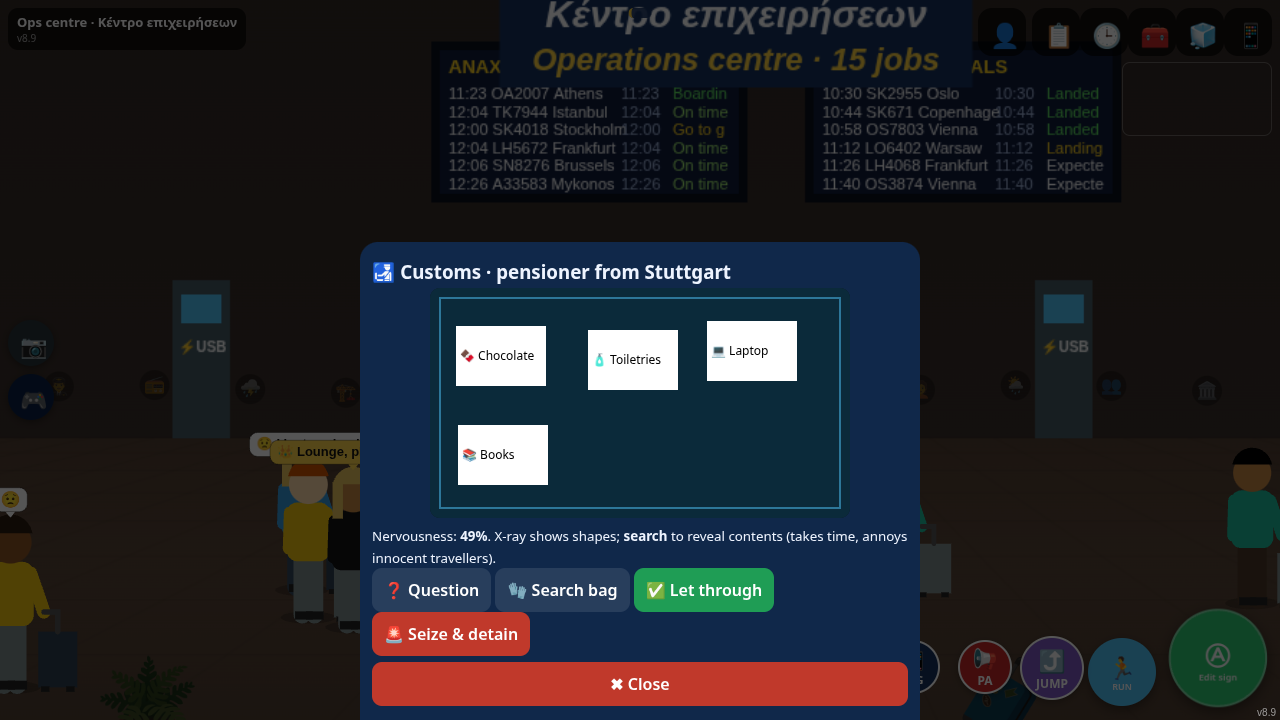
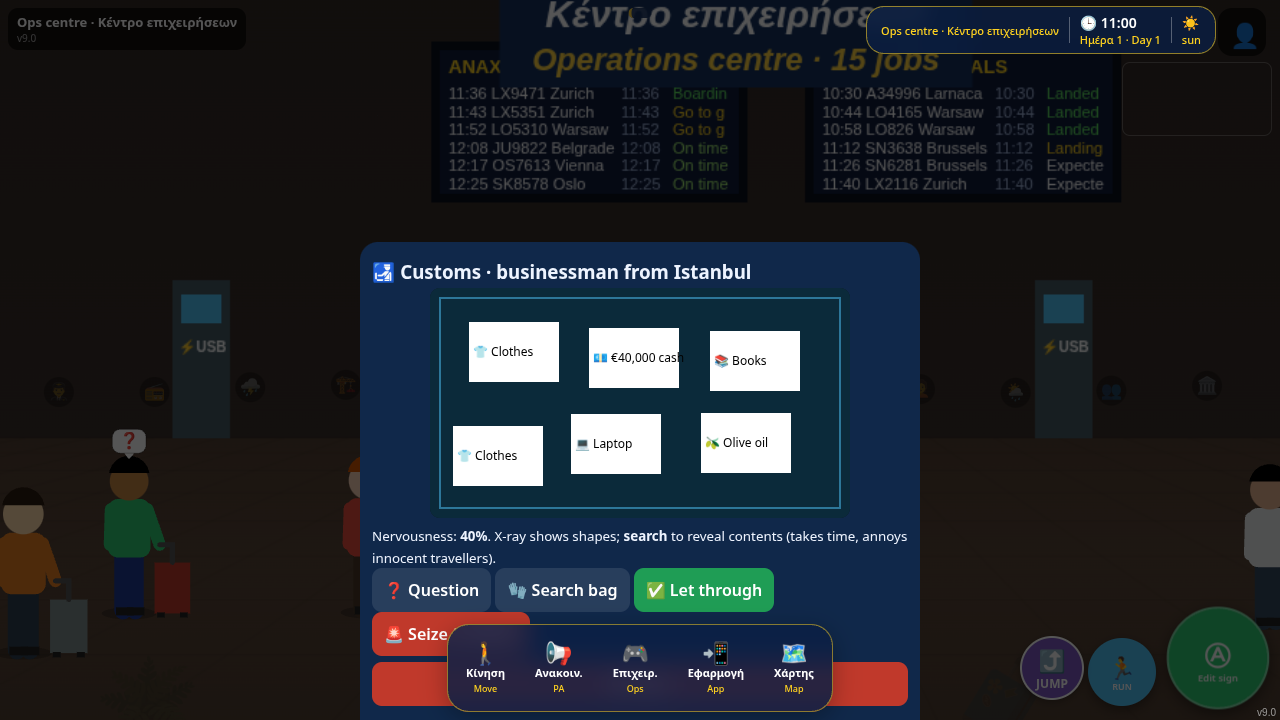
v9.0a2: new SKG UI dock, status bar, mini-map, e-ink variant

diff --git a/index.html b/index.html
@@ -1979,7 +1979,7 @@ function w3Render(){if(!REN)return;V1=V1||_v3();V2=V2||_v3();const P=W3.p,cab=W3
  const s=$('#w3say');const n=W.near;if(n){const p=_v3().set(n.x,n.k==='npc'?2.9:3.4,n.z).project(CAM);if(p.z<1){s.style.display='block';s.style.left=((p.x+1)/2*W.W)+'px';s.style.top=((1-p.y)/2*W.H)+'px';s.textContent=n.k==='npc'?n.n.req.ic+' '+n.n.req.say:'Ⓐ '+n.t}else s.style.display='none'}else s.style.display='none'}
 
 /* ===== v5.1: 3D looks like Dominik's pictures (ceilings, materials, props, collisions) ===== */
-const VER='v8.9';
+const VER='v9.0';
 let COL=[];function col(x,z,w,d){COL.push({x0:x-w/2,x1:x+w/2,z0:z-d/2,z1:z+d/2})}
 const _wk4=w3Walkable;w3Walkable=function(x,z){if(!_wk4(x,z))return false;if(W3.mode==='cab')return true;const ins=(a,b)=>COL.some(c=>a>c.x0-.28&&a<c.x1+.28&&b>c.z0-.28&&b<c.z1+.28);return !ins(x,z)||ins(W3.p.x,W3.p.z)};
 const INST={};function inst(key,geo,m,x,y,z,ry,sx,sy,sz,rz){(INST[key]=INST[key]||{geo,m,a:[]}).a.push([x,y,z,ry||0,sx||1,sy||1,sz||1,rz||0])}
@@ -5152,5 +5152,55 @@ function t7tp24(){return `<div class="ft7" style="margin:6px 0"><button class="y
  const _ft24=fastTravel;fastTravel=function(){const r=_ft24.apply(this,arguments);const m=$('#modal h3');if(m)m.insertAdjacentHTML('afterend',t7tp24());return r}
  const _mp24=map14;map14=function(){const r=_mp24.apply(this,arguments);const m=$('#modal h3');if(m)m.insertAdjacentHTML('afterend',t7tp24());return r}}
 NEW4.push(['🎙','v9.0: Greek PA = fresh translation of exactly what you said, natural neural voice with terminal echoes · bigger T7 (16 gates, food court, lounge, art garden) · T7 PA1–PA4 teleports']);
+
+// v9.0 UI: Fraport/SKG navy-white-gold glass UI · grouped dock (Move/PA/Ops/App/Map) · status bar · compass + mini-map · e-ink high contrast
+(function(){const css=`
+#ui25bar{position:fixed;top:max(6px,env(safe-area-inset-top));right:64px;z-index:60;display:flex;gap:10px;align-items:center;padding:6px 14px;border-radius:18px;background:rgba(10,31,68,.78);backdrop-filter:blur(10px);-webkit-backdrop-filter:blur(10px);color:#fff;border:1px solid rgba(255,210,31,.55);font:600 13px system-ui;pointer-events:none;max-width:70vw}
+#ui25bar .gr{font-size:14px;color:#fff}#ui25bar .en{font-size:11px;color:#ffd21f;font-weight:500}#ui25bar .sep{width:1px;height:26px;background:rgba(255,255,255,.3)}
+#ui25dock{position:fixed;left:50%;bottom:max(8px,env(safe-area-inset-bottom));transform:translateX(-50%);z-index:61;display:flex;gap:6px;padding:6px;border-radius:22px;background:rgba(10,31,68,.82);backdrop-filter:blur(12px);-webkit-backdrop-filter:blur(12px);border:1px solid rgba(255,210,31,.5);box-shadow:0 6px 24px rgba(0,0,0,.3)}
+#ui25dock>button{min-width:62px;min-height:58px;border:0;border-radius:16px;background:transparent;color:#fff;font:700 11px system-ui;display:flex;flex-direction:column;align-items:center;justify-content:center;gap:2px;transition:background .2s,transform .15s}
+#ui25dock>button b{font-size:22px;line-height:1}#ui25dock>button small{font-size:9px;color:#ffd21f;font-weight:500}
+#ui25dock>button.on{background:#ffd21f;color:#0a1f44}#ui25dock>button.on small{color:#0a1f44}
+.ui25fly{position:fixed;left:50%;bottom:calc(max(8px,env(safe-area-inset-bottom)) + 80px);transform:translateX(-50%) translateY(12px);opacity:0;pointer-events:none;z-index:62;display:grid;grid-template-columns:repeat(4,minmax(64px,1fr));gap:8px;padding:12px;border-radius:20px;background:rgba(255,255,255,.9);backdrop-filter:blur(14px);-webkit-backdrop-filter:blur(14px);border:1px solid rgba(10,31,68,.15);box-shadow:0 10px 30px rgba(10,31,68,.35);transition:opacity .22s,transform .22s;max-width:94vw}
+.ui25fly.on{opacity:1;transform:translateX(-50%) translateY(0);pointer-events:auto}
+.ui25fly h4{grid-column:1/-1;margin:0 0 2px;font:700 13px system-ui;color:#0a1f44}.ui25fly h4 small{display:block;color:#8a6d00;font-weight:500}
+.ui25fly button{position:static!important;inset:auto!important;transform:none!important;min-width:64px!important;min-height:60px!important;width:auto!important;height:auto!important;margin:0!important;border-radius:14px!important;background:#0a1f44!important;color:#fff!important;border:2px solid #ffd21f!important;font:700 20px system-ui!important;line-height:1.1!important;display:flex!important;padding:4px!important;flex-direction:column;align-items:center;justify-content:center;opacity:1!important}
+#ui25mm{position:fixed;right:10px;top:max(64px,calc(env(safe-area-inset-top) + 58px));z-index:59;width:112px;height:112px;border-radius:50%;background:rgba(10,31,68,.78);border:2px solid #ffd21f;overflow:hidden;pointer-events:none}
+#ui25mm canvas{width:100%;height:100%}
+#wAct,#wRun,#jmp16{min-width:64px;min-height:64px}
+body.eink #ui25bar,body.eink #ui25dock,body.eink .ui25fly,body.eink #ui25mm{background:#fff!important;color:#000!important;border:3px solid #000!important;backdrop-filter:none!important;-webkit-backdrop-filter:none!important;box-shadow:none!important;transition:none!important}
+body.eink #ui25bar .en,body.eink #ui25dock small{color:#000!important}body.eink #ui25dock>button{color:#000}body.eink #ui25dock>button.on{background:#000;color:#fff}body.eink #ui25dock>button.on small{color:#fff!important}
+body.eink .ui25fly button{background:#fff!important;color:#000!important;border:3px solid #000!important}body.eink .ui25fly h4,body.eink .ui25fly h4 small{color:#000}
+body.eink #ui25mm{display:none}
+#ui25bar>div{white-space:nowrap}@media (max-width:520px){#ui25bar{right:60px;left:auto;gap:6px;padding:4px 8px;font-size:11px;max-width:calc(100vw - 130px)}#ui25bar .gr{font-size:12px}#ui25bar .en{font-size:9px}#ui25bar>div:first-child{overflow:hidden;text-overflow:ellipsis;max-width:110px}#ui25dock{gap:2px;padding:4px}#ui25dock>button{min-width:56px;min-height:56px;font-size:10px;padding:0 2px}.ui25fly{grid-template-columns:repeat(3,64px)}}
+.ui25fly button *{font-size:inherit!important;color:inherit!important;display:inline!important;position:static!important}.ui25fly button small,.ui25fly button span{font-size:11px!important;display:block!important}
+.wtop .ui25hide,#w6bar.ui25hide{display:none!important}`;
+const st=document.createElement('style');st.textContent=css;document.head.appendChild(st)})();
+const UI25={cats:[['move','🚶','Κίνηση','Move',['w6ride','w6fp','bWalk','bSpeed','w6sh','wRun','jmp16']],['pa','📢','Ανακοινώσεις','PA',['pa16','bAnn','w6rad','bSnd']],['ops','🎮','Επιχειρήσεις','Ops',['ops23','w7hub','hb12','brd10','tm11','spt23']],['app','📲','Εφαρμογή SKG','App',['ph17','wPhone','w6set','bInk','w3b']],['map','🗺','Χάρτης','Map',['w7ft','map25']]],open:null,keep:{wRun:1,jmp16:1}};
+function ui25(){if($('#ui25dock'))return;const d=document.createElement('div');d.id='ui25dock';document.body.appendChild(d);
+ UI25.cats.forEach(([k,ic,gr,en])=>{const b=document.createElement('button');b.id='ui25_'+k;b.innerHTML=`<b>${ic}</b>${({move:'Κίνηση',pa:'Ανακοιν.',ops:'Επιχειρ.',app:'Εφαρμογή',map:'Χάρτης'})[k]}<small>${en}</small>`;b.onclick=()=>ui25tog(k);d.appendChild(b);
+  const f=document.createElement('div');f.className='ui25fly';f.id='ui25f_'+k;f.innerHTML=`<h4>${gr}<small>${en}</small></h4>`;document.body.appendChild(f)});
+ const m=document.createElement('button');m.id='map25';m.innerHTML='🗺<br>Χάρτης / Map';m.onclick=()=>{ui25tog(null);map14()};$('#ui25f_map').appendChild(m);
+ const bar=document.createElement('div');bar.id='ui25bar';document.body.appendChild(bar);
+ const mm=document.createElement('div');mm.id='ui25mm';mm.style.display='none';mm.innerHTML='<canvas width="224" height="224"></canvas>';document.body.appendChild(mm);
+ document.addEventListener('pointerdown',e=>{if(UI25.open&&!e.target.closest('.ui25fly,#ui25dock'))ui25tog(null)},true)}
+function ui25tog(k){UI25.open=UI25.open===k?null:k;UI25.cats.forEach(([c])=>{$('#ui25f_'+c).classList.toggle('on',c===UI25.open);$('#ui25_'+c).classList.toggle('on',c===UI25.open)})}
+// move existing buttons into their category (keeps their handlers); RUN/JUMP stay in the action cluster too in 3D
+function sweep25(){ui25();UI25.cats.forEach(([k,,,,ids])=>{const f=$('#ui25f_'+k);ids.forEach(id=>{if(UI25.keep[id])return;const e=document.getElementById(id);if(e&&e.parentElement!==f)f.appendChild(e)})});
+ const w=$('#w6bar');if(w)w.classList.toggle('ui25hide',!w.querySelector('button'));
+ // big touch targets everywhere
+ ['wAct','wRun','jmp16'].forEach(id=>{const e=document.getElementById(id);if(e){e.style.minWidth='64px';e.style.minHeight='64px'}})}
+const WXI25={clear:'☀',sun:'☀',cloud:'⛅',rain:'🌧',storm:'⛈',fog:'🌫',snow:'❄',wind:'💨'};
+function bar25(){const b=$('#ui25bar');if(!b)return;let gr='',en='';try{if(W3.on){const t=typeof curT16==='function'?curT16():null;const X=t?TT22(t):null;en=X?X.name:(t===0?'Makedonia terminal':'Airport · outside');gr=X?(X.id===8?'Τερματικός 1A':'Τερματικός '+X.id):(t===0?'Τερματικός Μακεδονία':'Αεροδρόμιο')}else{const A=WA[W.area]||{};en=A.name||'';gr=A.gr||''}}catch(e){}
+ const k=(G.wx&&G.wx.k)||'clear',wi=Object.keys(WXI25).find(x=>String(k).includes(x));const h=b.dataset.h=`<div><div class="gr">${gr}</div><div class="en">${en}</div></div><div class="sep"></div><div><div class="gr">🕒 ${hm(G.min)}</div><div class="en">Ημέρα ${G.day} · Day ${G.day}</div></div><div class="sep"></div><div><div class="gr">${WXI25[wi]||'🌤'}</div><div class="en">${String(k)}</div></div>`;if(b._h!==h){b.innerHTML=h;b._h=h}}
+function mm25(){const w=$('#ui25mm');if(!w)return;w.style.display=W3.on?'':'none';if(!W3.on)return;const c=w.firstChild,g=c.getContext('2d'),s=.35,px=W3.p.x,pz=W3.p.z;g.clearRect(0,0,224,224);g.save();g.translate(112,112);g.rotate(W3.yaw||0);
+ const R=(x0,z0,x1,z1,col)=>{g.fillStyle=col;g.fillRect((x0-px)*s,(z0-pz)*s,(x1-x0)*s,(z1-z0)*s)};
+ try{(TERMS||[]).forEach(T=>{if(T.x0!==undefined)R(T.x0,T.z0,T.x1,T.z1,'rgba(255,255,255,.55)')});(XT22||[]).forEach(X=>R(X.x0,X.z0,X.x1,X.z1,X.id===7?'rgba(255,210,31,.8)':'rgba(144,202,249,.8)'));R(-200,-400,3000,-330,'rgba(120,120,120,.6)')}catch(e){}
+ g.restore();g.fillStyle='#ffd21f';g.beginPath();g.moveTo(112,98);g.lineTo(104,122);g.lineTo(120,122);g.fill();
+ const a=(W3.yaw||0);g.fillStyle='#fff';g.font='bold 22px system-ui';g.textAlign='center';g.fillText('N',112+Math.sin(-a)*-92,112-Math.cos(-a)*92+8)}
+setInterval(()=>{try{sweep25();bar25();if(!W3.on&&$('#ui25mm'))$('#ui25mm').style.display='none'}catch(e){}},700);
+{let t=0;const _u=w3Update;w3Update=function(dt){const r=_u.apply(this,arguments);t-=dt||0;if(t<=0){t=.15;try{mm25()}catch(e){}}return r}}
+// smooth area/modal transitions (off on e-ink)
+(function(){const s=document.createElement('style');s.textContent='body:not(.eink) #modal .box,body:not(.eink) #modal>div{animation:ui25in .22s ease-out}@keyframes ui25in{from{opacity:0;transform:translateY(10px) scale(.98)}to{opacity:1;transform:none}}';document.head.appendChild(s)})();
 
 </script></body></html>

diff --git a/PROGRESS.md b/PROGRESS.md
@@ -171,3 +171,8 @@ Greek translates actual transcript (fuzzy script match ≥ threshold, protected 
 - Voice: natural neural Greek audio (Google TTS), split into sentences with pauses, plus delayed "terminal speaker" echoes and hall ambience. Fallbacks: the best iPhone Greek voice (Premium/Enhanced Melina first), then the built-in offline voice. Lighter muffling.
 - T7: 500 m wide, 16 gates, 16 shops/restaurants/lounge, food court and lounge & art garden (2D areas t7f, t7l), olive-tree planters, sculptures and art walls, sofas, 4 extra double-sided board pairs, more passengers.
 - Teleports: Terminal 7 and T7 PA1–PA4 (plus T1A PA) in the PA picker, travel menu and 2D map, in both modes. Keycard from the first frame.
+
+## v9.0 Part A2 – new SKG/Fraport UI (LIVE)
+- Navy, white and gold glass UI in 2D and 3D. A bottom dock groups everything into 5 categories (Κίνηση/Move, Ανακοιν./PA, Επιχειρ./Ops, Εφαρμογή/App, Χάρτης/Map). Each one opens a flyout of large buttons (60px or more). RUN, JUMP and Action stay in the right-hand cluster.
+- Top status bar (Greek above English): terminal or area, time, day, weather. In 3D, a mini-map with a compass rotates with the camera (T7 in gold).
+- Smooth modal and flyout transitions. E-ink: high-contrast black and white, no blur, no animation, no mini-map.
